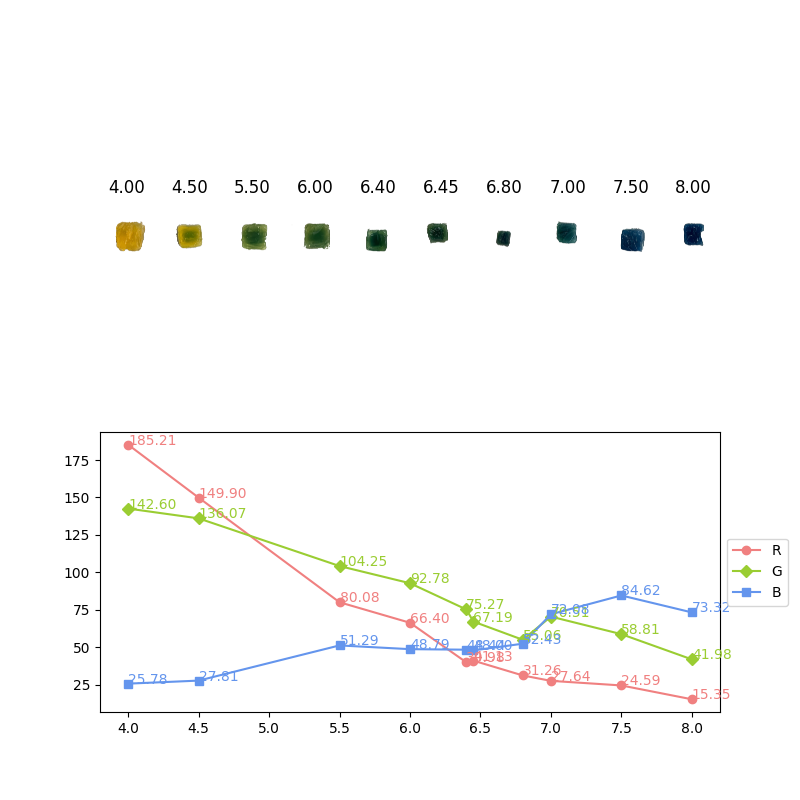
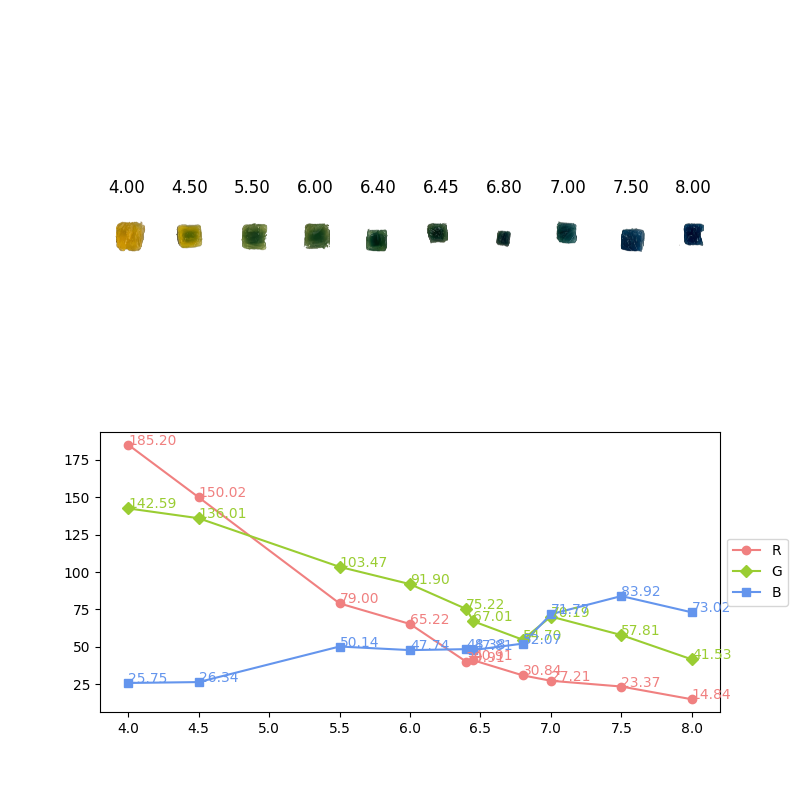
files rename

diff --git a/ph_measuring.py b/ph_measuring.py
@@ -129,7 +129,7 @@ def predict_pH(imgs):
   plt.show()
 
 def main():
-  image_dict = load_images('all data')
+  image_dict = load_images('test data')
   predict_pH(image_dict)
 
 
